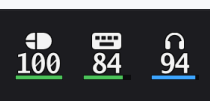
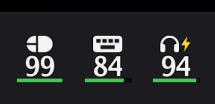
Show a lightning bolt while charging instead of a blue bar
The bar keeps its level color (green, amber, red); a yellow bolt next to
the pictogram marks charging. Also a smaller logo and an updated taskbar
screenshot in the README.

diff --git a/src/internal/icon/icon.go b/src/internal/icon/icon.go
@@ -1,4 +1,5 @@
-// Package icon draws the tray icons: a device pictogram, the battery percentage and a level bar.
+// Package icon draws the tray icons: a device pictogram (with a lightning bolt while
+// charging), the battery percentage and a level bar.
 package icon
 
 import (
@@ -23,7 +24,7 @@ import (
 // State is what an icon shows.
 type State struct {
 	Percent  int  // 0..100, -1 unknown
-	Charging bool // blue bar
+	Charging bool // lightning bolt next to the pictogram
 	Asleep   bool // dimmed (last known value)
 	NoAccess bool // "?"
 	Low      int  // red at or below this level
@@ -34,14 +35,14 @@ type State struct {
 var Sizes = []int{16, 22, 24, 32, 48, 64}
 
 var (
-	textColor   = color.NRGBA{0xF4, 0xF4, 0xF4, 0xFF}
-	lowColor    = color.NRGBA{0xFF, 0x4D, 0x4D, 0xFF}
-	outline     = color.NRGBA{0x00, 0x00, 0x00, 0xC0}
-	barBack     = color.NRGBA{0x00, 0x00, 0x00, 0x90}
-	barGood     = color.NRGBA{0x4C, 0xC3, 0x5A, 0xFF}
-	barMid      = color.NRGBA{0xF0, 0xB4, 0x29, 0xFF}
-	barLow      = color.NRGBA{0xFF, 0x4D, 0x4D, 0xFF}
-	barCharging = color.NRGBA{0x3D, 0xA5, 0xFF, 0xFF}
+	textColor = color.NRGBA{0xF4, 0xF4, 0xF4, 0xFF}
+	lowColor  = color.NRGBA{0xFF, 0x4D, 0x4D, 0xFF}
+	outline   = color.NRGBA{0x00, 0x00, 0x00, 0xC0}
+	barBack   = color.NRGBA{0x00, 0x00, 0x00, 0x90}
+	barGood   = color.NRGBA{0x4C, 0xC3, 0x5A, 0xFF}
+	barMid    = color.NRGBA{0xF0, 0xB4, 0x29, 0xFF}
+	barLow    = color.NRGBA{0xFF, 0x4D, 0x4D, 0xFF}
+	boltColor = color.NRGBA{0xFF, 0xD8, 0x3D, 0xFF}
 )
 
 var (
@@ -101,8 +102,6 @@ func Render(s State, size int) *image.NRGBA {
 		draw.Draw(img, image.Rect(0, barTop, size, size), image.NewUniform(barBack), image.Point{}, draw.Src)
 		fill := barGood
 		switch {
-		case s.Charging:
-			fill = barCharging
 		case s.Percent <= s.Low:
 			fill = barLow
 		case s.Percent <= 50:
@@ -119,13 +118,28 @@ func Render(s State, size int) *image.NRGBA {
 		draw.Draw(img, image.Rect(1, barTop+inset, 1+w, size-inset), image.NewUniform(fill), image.Point{}, draw.Src)
 	}
 
+	// Top row: the pictogram, and a lightning bolt beside it while charging, centered together.
 	gh := int(math.Round(float64(size) * 0.36))
-	if s.Glyph != NoGlyph {
+	charging := s.Charging && !s.NoAccess
+	if s.Glyph != NoGlyph || charging {
 		h := gh - pad
-		w := min(int(math.Round(float64(h)*s.Glyph.aspect())), size-2*pad)
-		mask := glyphMask(s.Glyph, w, h)
-		at := image.Pt((size-w)/2, pad+(h-mask.Bounds().Dy())/2)
-		drawMask(img, mask, at, textColor, pad)
+		boltW, gap, glyphW := 0, 0, 0
+		if charging {
+			boltW = max(int(math.Round(float64(h)*boltAspect)), 3)
+		}
+		if s.Glyph != NoGlyph {
+			if charging {
+				gap = max(size/24, 1)
+			}
+			glyphW = min(int(math.Round(float64(h)*s.Glyph.aspect())), size-2*pad-boltW-gap)
+		}
+		x := (size - glyphW - gap - boltW) / 2
+		if glyphW > 0 {
+			drawMask(img, glyphMask(s.Glyph, glyphW, h), image.Pt(x, pad), textColor, pad)
+		}
+		if charging {
+			drawMask(img, boltMask(boltW, h), image.Pt(x+glyphW+gap, pad), boltColor, pad)
+		}
 	}
 	textTop := gh + max(size/16, 1)
 

diff --git a/src/internal/icon/icon_test.go b/src/internal/icon/icon_test.go
@@ -60,6 +60,35 @@ func TestGlyphsHaveInk(t *testing.T) {
 	}
 }
 
+// Charging adds the bolt (yellow pixels) and keeps the level color on the bar.
+func TestChargingBolt(t *testing.T) {
+	yellow := func(s State) int {
+		n := 0
+		img := Render(s, 48)
+		for i := 0; i < len(img.Pix); i += 4 {
+			if img.Pix[i] > 0xE0 && img.Pix[i+1] > 0xC0 && img.Pix[i+2] < 0x80 && img.Pix[i+3] > 0xC0 {
+				n++
+			}
+		}
+		return n
+	}
+	for _, g := range []Glyph{NoGlyph, MouseGlyph, KeyboardGlyph, HeadsetGlyph} {
+		on := State{Percent: 94, Charging: true, Low: 15, Glyph: g}
+		off := on
+		off.Charging = false
+		if yellow(on) < 10 || yellow(off) != 0 {
+			t.Errorf("glyph %d: bolt pixels charging %d, not charging %d", g, yellow(on), yellow(off))
+		}
+		bar := func(s State) [3]uint8 {
+			c := Render(s, 48).NRGBAAt(24, 47)
+			return [3]uint8{c.R, c.G, c.B}
+		}
+		if bar(on) != bar(off) {
+			t.Errorf("glyph %d: charging changes the bar color", g)
+		}
+	}
+}
+
 func TestAppIcon(t *testing.T) {
 	img := AppIcon(48)
 	if img.Bounds().Dx() != 48 || img.NRGBAAt(24, 24).A == 0 {

diff --git a/src/internal/icon/glyph.go b/src/internal/icon/glyph.go
@@ -124,3 +124,23 @@ func glyphMask(g Glyph, w, h int) *image.Alpha {
 	}
 	return s.mask()
 }
+
+// boltAspect is the lightning bolt's width divided by its height.
+const boltAspect = 0.62
+
+// boltMask draws the charging lightning bolt into a w×h coverage mask.
+func boltMask(w, h int) *image.Alpha {
+	s := newShape(w, h)
+	W, H := float64(w), float64(h)
+	pts := [][2]float64{{0.66, 0}, {0.04, 0.58}, {0.44, 0.58}, {0.30, 1}, {0.96, 0.38}, {0.56, 0.38}}
+	for i, p := range pts {
+		x, y := float32(p[0]*W), float32(p[1]*H)
+		if i == 0 {
+			s.fill.MoveTo(x, y)
+		} else {
+			s.fill.LineTo(x, y)
+		}
+	}
+	s.fill.ClosePath()
+	return s.mask()
+}

diff --git a/CLAUDE.md b/CLAUDE.md
@@ -30,7 +30,7 @@ Platform code is split by file: `*_windows.go` for Windows, `*_unix.go`/`*_other
 - `src/internal/ui`: the settings window, self-drawn so it looks the same everywhere and needs no cgo. `builder.go` is an immediate-mode layout (Header, Section, Card with CheckRow/SwitchRow/InfoRow, Buttons) rebuilt on every redraw; `canvas.go` draws antialiased shapes; `ui.go` lays out and paints into an RGBA image. Backends only show that image and feed mouse/keys back: `x11.go` (pure-Go X11 via jezek/xgb, XWayland on Wayland; Xft.dpi scaling, focus timestamps, PutImage) and `win32_windows.go` (own window class and message loop on a locked OS thread, StretchDIBits, system DPI, dark title bar via DWM). Fonts: fc-match's sans-serif on Linux, Segoe UI on Windows, Go fonts as fallback; light/dark from the XDG portal or the Windows app mode. `ui.Snapshot` renders offscreen: `BATTERY_STATE_SNAPSHOT=/some/dir go test ./src/internal/tray -run TestWindowLayout` writes PNGs of the window to look at.
 - `src/internal/config`: settings in `battery-state/settings.json` under `os.UserConfigDir()` (`~/.config`, Windows `%AppData%`).
 - `src/internal/update`: like bibi-brightness: reads the version from the `releases/latest` redirect (no API), downloads `battery-state-vX.Y.Z-x86_64-linux.tar.gz` or `-x86_64-windows.zip` (the names `release.yml` produces; keep them in sync), checks `--version`, runs it with `--install`. Only the installed copy checks, at most once a day, and only when "Check for updates" is on.
-- `src/internal/icon`: renders the tray icons to ARGB32 pixmaps at several sizes: a device pictogram on top (`glyph.go`, vector shapes with cut-outs, from `battery.Kind`), the percentage (Go Bold, outlined) and a level bar. `AppIcon` scales the embedded logo.
+- `src/internal/icon`: renders the tray icons to ARGB32 pixmaps at several sizes: a device pictogram on top (`glyph.go`, vector shapes with cut-outs, from `battery.Kind`) with a yellow lightning bolt beside it while charging, the percentage (Go Bold, outlined) and a level bar. `AppIcon` scales the embedded logo.
 - `src/internal/notify`: org.freedesktop.Notifications on Linux; on Windows the tray registers a handler that shows a balloon.
 - `src/internal/setup`: Linux only (`setup.Available`): writes `/etc/udev/rules.d/60-battery-state.rules` (uaccess tag) through pkexec.
 - `src/internal/install`: per-user install. Linux: `~/.local` and the autostart entry in `~/.config/autostart`. Windows: `%LOCALAPPDATA%\Programs\battery-state`, a Start menu shortcut (via PowerShell's WScript.Shell), autostart in `HKCU\Software\Microsoft\Windows\CurrentVersion\Run`.

diff --git a/README.md b/README.md
@@ -1,4 +1,4 @@
-<p align="center"><img src="assets/icon-256.png" alt="Battery State" height="128px"></p>
+<p align="center"><img src="assets/icon-256.png" alt="Battery State" height="64px"></p>
 
 # Battery State
 
@@ -11,7 +11,8 @@ Battery levels of your wireless mouse, keyboard and headset in the system tray. 
 - **One tray icon per device**: a small pictogram (mouse, keyboard or headset) on top, the
   percentage below it and a level bar along the bottom.
 - **Low battery**: the number turns red at 15% or less, and a desktop notification appears once.
-- **Charging**: the bar turns blue.
+- **Charging**: a yellow lightning bolt appears next to the pictogram; the bar keeps its level
+  color.
 - **Asleep or off**: the icon is dimmed and shows the last known value (`–` if there is none yet).
 - **No access**: `?` means the device was found but can't be read yet; see [Access](#access).
 - Hover for the name and details. **Click** an icon for the settings window and **right-click**
